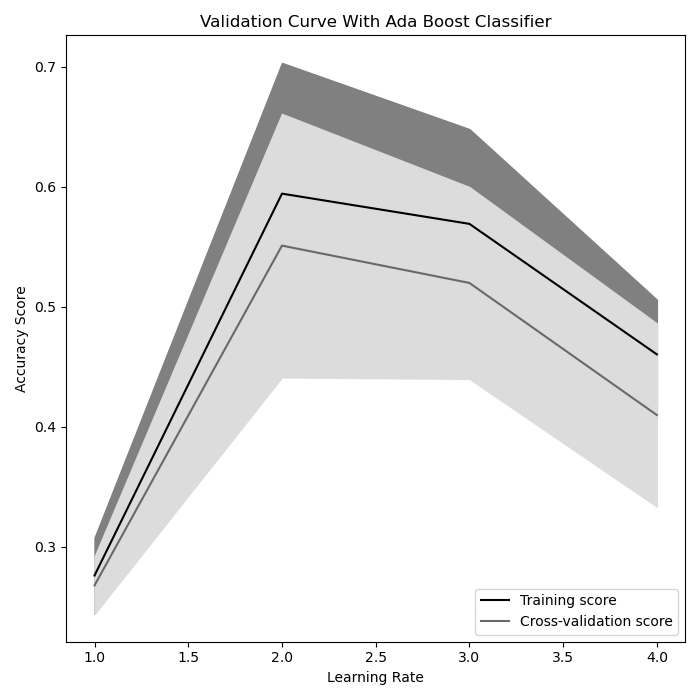
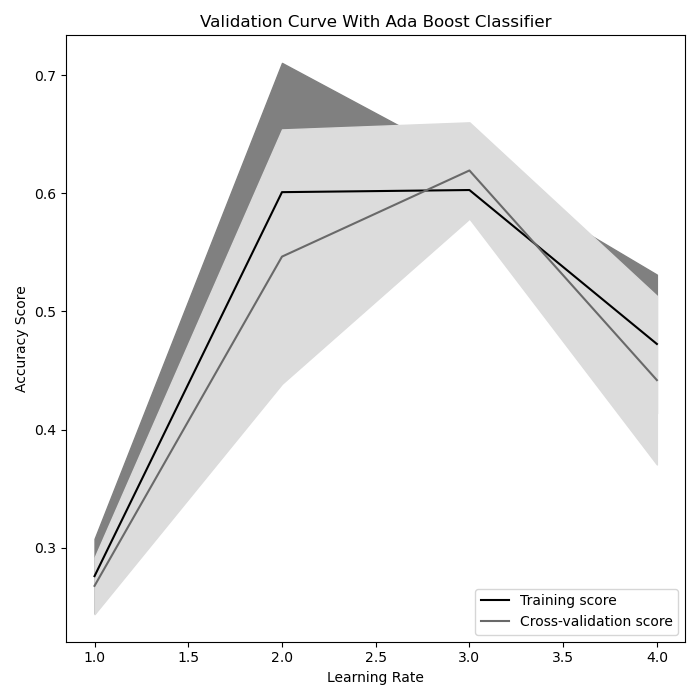
update

diff --git a/src/Q5_hw5_digits.py b/src/Q5_hw5_digits.py
@@ -1,6 +1,6 @@
+
 # Importing the libraries
 
-from sklearn.datasets import fetch_lfw_people
 from sklearn.svm import SVC
 from sklearn.model_selection import validation_curve
 import matplotlib.pyplot as plt
@@ -9,47 +9,57 @@ import numpy as np
 from sklearn import metrics
 from sklearn.model_selection import GridSearchCV
 
+#from sklearn.datasets import fetch_lfw_people
+
+from sklearn.datasets import fetch_lfw_people
+faces = fetch_lfw_people(min_faces_per_person=60)
+
+
 # Read the data
 
-faces = fetch_lfw_people(min_faces_per_person=60, return_X_y=True)
+print(faces.images.shape)
+print(faces.data.shape)
+
 X = faces.data
 y = faces.target
 
 # Split data for training and testing, and model y
 
 Xtrain, Xtest, ytrain, ytest = train_test_split(X, y, random_state=42)
-model = SVC(kernel='rbf', class_weight='balanced')
+model = SVC(kernel='rbf', class_weight=None)
 model.fit(Xtrain, ytrain)
 ymodel = model.predict(Xtest)
 print(ymodel)
 print(metrics.classification_report(ymodel, ytest))
-'''
-param_grid = {'svc__C': [1, 5, 10, 50],
+
+'''(param_grid = {'svc__C': [1, 5, 10, 50],
               'svc__gamma': [0.0001, 0.0005, 0.001, 0.005]}
 grid = GridSearchCV(model, param_grid)
 grid.fit(Xtrain, ytrain)
-print(grid.best_params_)
+print(grid.best_params_)'''
+
+from sklearn.model_selection import learning_curve
 
 # Investigate performance with a validation curve
+
+
 #param_range = np.arange(start=0, stop=500, step=50)
-param_range = np.arange(5)
-train_scores, test_scores = validation_curve(SVC(), X, y, param_name="learning_rate", param_range=param_range, scoring="accuracy")
+param_range = np.arange(20, 121, 30)
+train_sizes, train_scores, test_scores = learning_curve(SVC(), X, y, train_sizes = param_range, cv = 5)
 train_mean = np.mean(train_scores, axis=1)
 train_std = np.std(train_scores, axis=1)
 test_mean = np.mean(test_scores, axis=1)
 test_std = np.std(test_scores, axis=1)
 
-# Plot the curve
-plt.cla()
-plt.clf()
+
 plt.subplots(1, figsize=(7,7))
 plt.plot(param_range, train_mean, label="Training score", color="black")
 plt.plot(param_range, test_mean, label="Cross-validation score", color="dimgrey")
 plt.fill_between(param_range, train_mean - train_std, train_mean + train_std, color="gray")
 plt.fill_between(param_range, test_mean - test_std, test_mean + test_std, color="gainsboro")
-plt.title("Validation Curve With Ada Boost Classifier")
-plt.xlabel("Learning Rate")
-plt.ylabel("Accuracy Score")
+plt.title("Validation Curve With SVC Classifier")
+plt.xlabel("Train sizes")
+plt.ylabel("")
 plt.tight_layout()
 plt.legend(loc=4)
-plt.savefig('figs/4_Ada_Boost_Classifier_Validation.png')'''
+plt.savefig('../figs/Q5_SVC_Classifier_Validation.png')

diff --git a/src/Q4_hw5_digits.py b/src/Q4_hw5_digits.py
@@ -14,6 +14,9 @@ digits = load_digits()
 X = digits.data
 y = digits.target
 
+print(X.shape)
+print(y.shape)
+
 # Split data for training and testing, and model y
 
 Xtrain, Xtest, ytrain, ytest = train_test_split(X, y, random_state=0)
